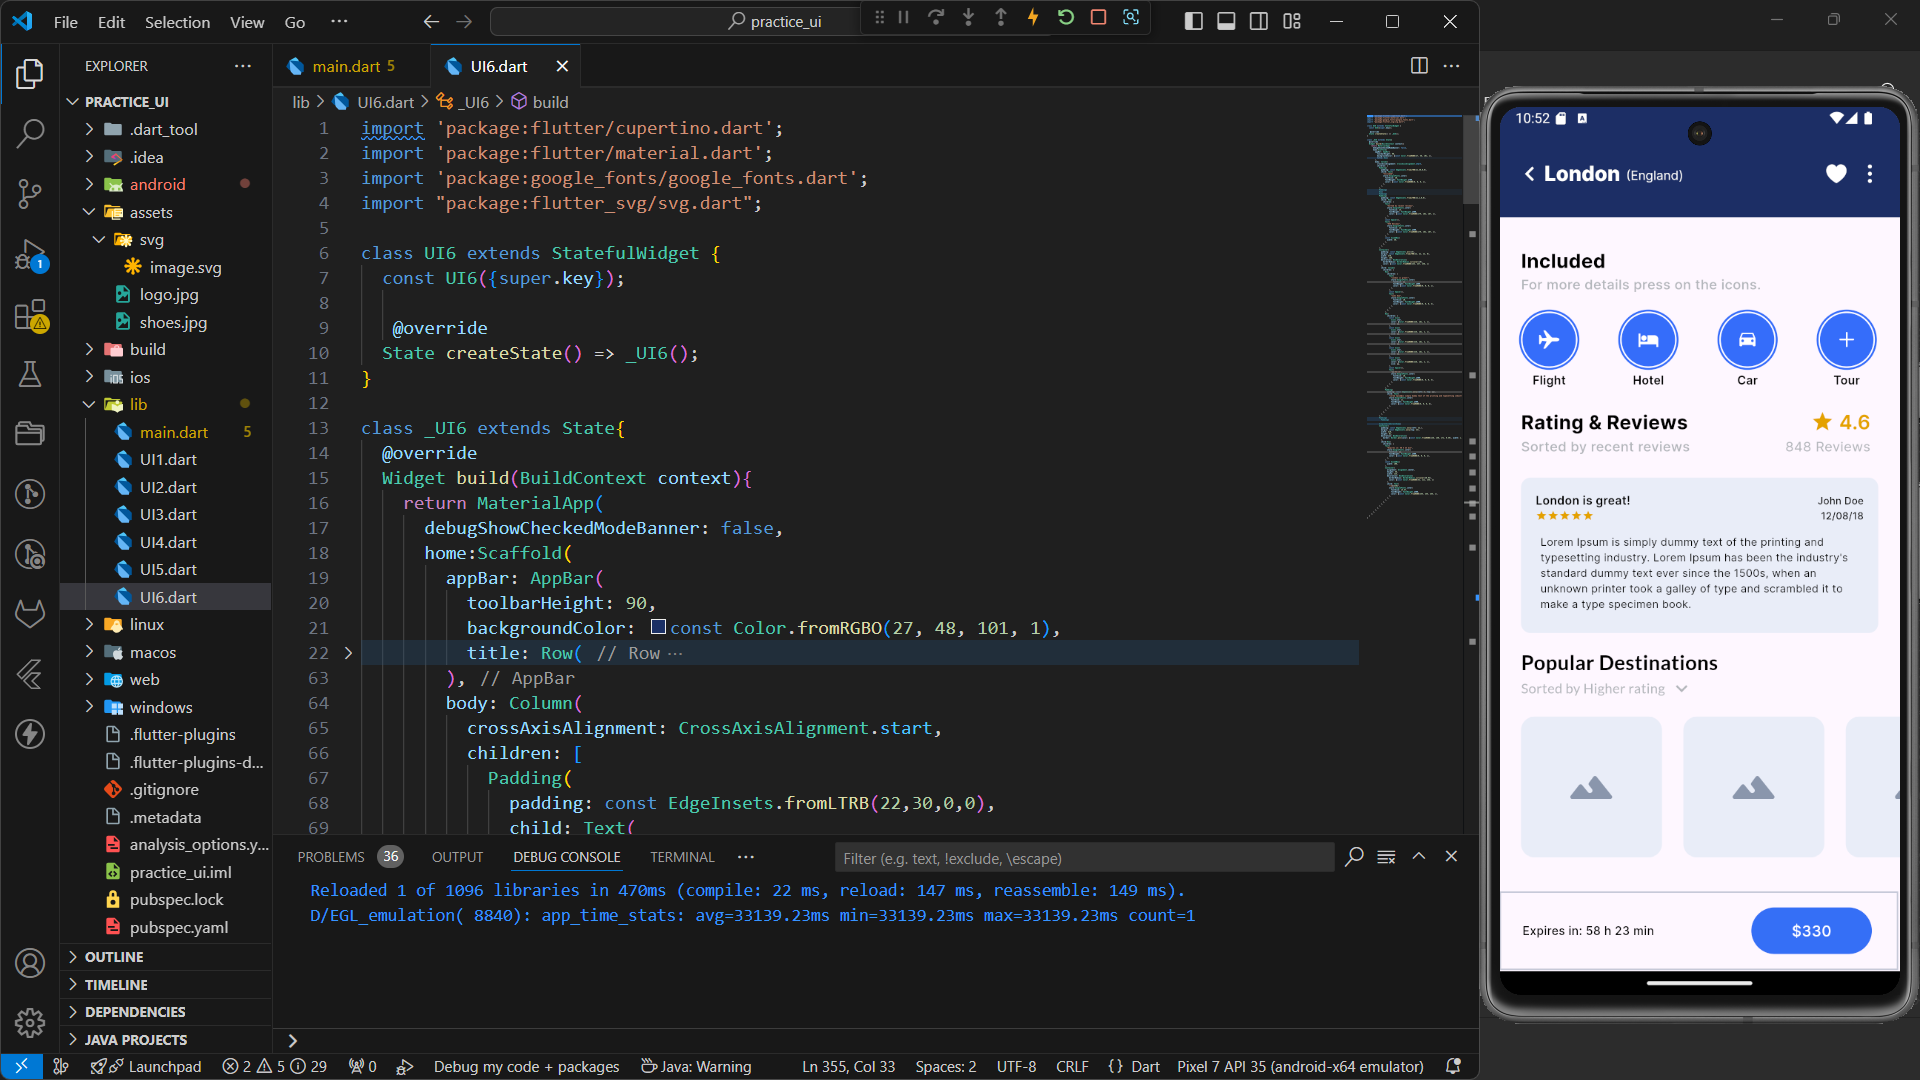
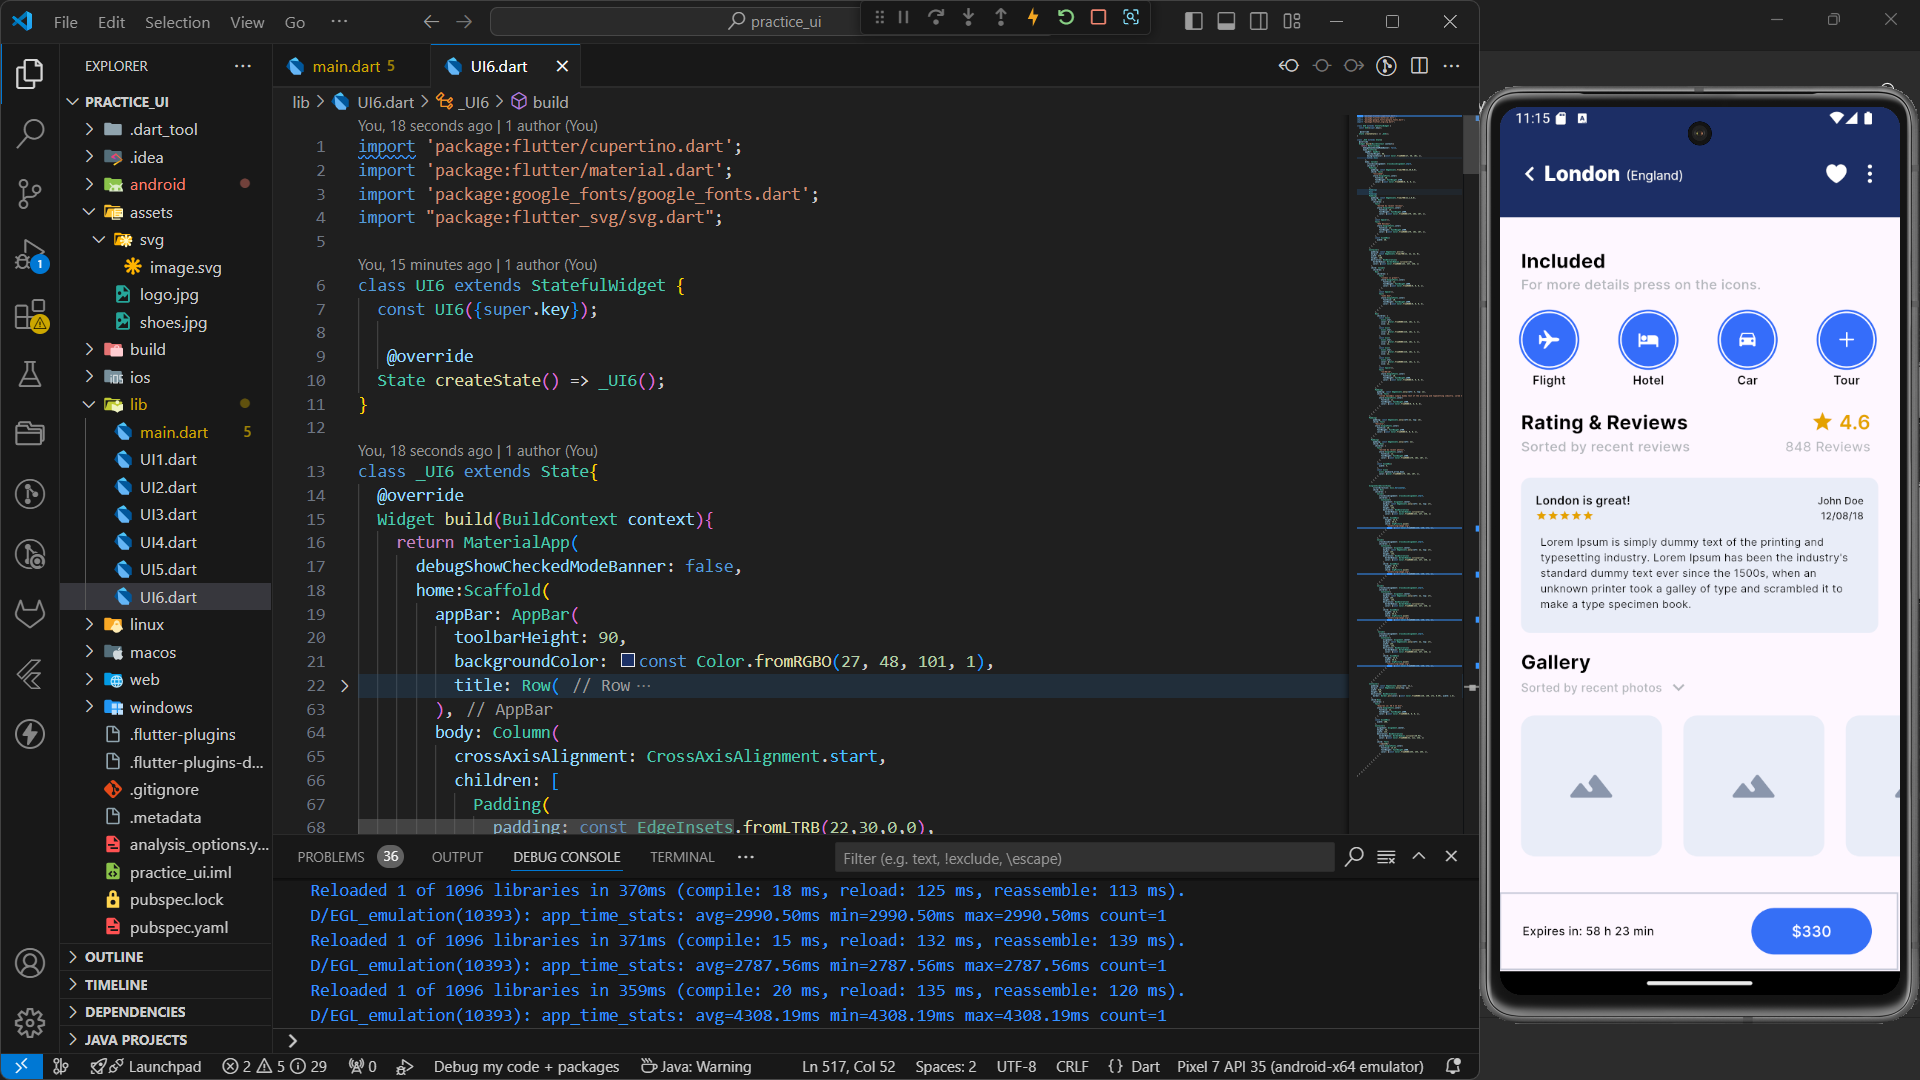
Updated codes

diff --git a/Assignments/Practice_UI/practice_ui/lib/UI6.dart b/Assignments/Practice_UI/practice_ui/lib/UI6.dart
@@ -382,11 +382,11 @@ class _UI6 extends State{
             Padding(
                 padding: const EdgeInsets.only(left:22, top: 15),
                 child: Text(
-                  "Popular Destinations",
-                  style:GoogleFonts.lato(
-                    textStyle: const TextStyle(color: Color.fromRGBO(0, 0, 0, 1), fontFamily: 'Inter'),
-                    fontSize: 21,
-                    fontWeight: FontWeight.w800,
+                  "Gallery",
+                  style:GoogleFonts.inter(
+                    fontSize: 20,
+                    fontWeight: FontWeight.w700,
+                    color: const Color.fromRGBO(0, 0, 0, 1),
                   ),
                 ),
               ),
@@ -395,11 +395,11 @@ class _UI6 extends State{
                 child: Row(
                   children: [
                     Text(
-                      "Sorted by Higher rating",
-                      style:GoogleFonts.lato(
-                        textStyle: const TextStyle(color: Color.fromRGBO(179, 182, 187, 1), fontFamily: 'Inter'),
-                        fontSize: 14,
+                      "Sorted by recent photos",
+                      style:GoogleFonts.inter(
+                        fontSize: 12,
                         fontWeight: FontWeight.w500,
+                        color: const Color.fromRGBO(179, 182, 187, 1),
                       ),
                     ),
                     const SizedBox(
@@ -514,9 +514,9 @@ class _UI6 extends State{
               ),
             Container(
               padding: const EdgeInsets.only(left: 22,),
-              margin: const EdgeInsets.only(top: 35),
+              margin: const EdgeInsets.only(top: 37),
               width: 410,
-              height: 81,
+              height: 80,
               decoration: BoxDecoration(
                 border: Border.all(color: const Color.fromRGBO(138, 150, 172, 0.49), width: 1.5),
               ),

diff --git a/Assignments/Practice_UI/practice_ui/lib/main.dart b/Assignments/Practice_UI/practice_ui/lib/main.dart
@@ -7,7 +7,7 @@ import "UI5.dart";
 import 'UI6.dart';
 
 void main() {
-  runApp(const UI4());
+  runApp(const UI6());
 }
 
 
